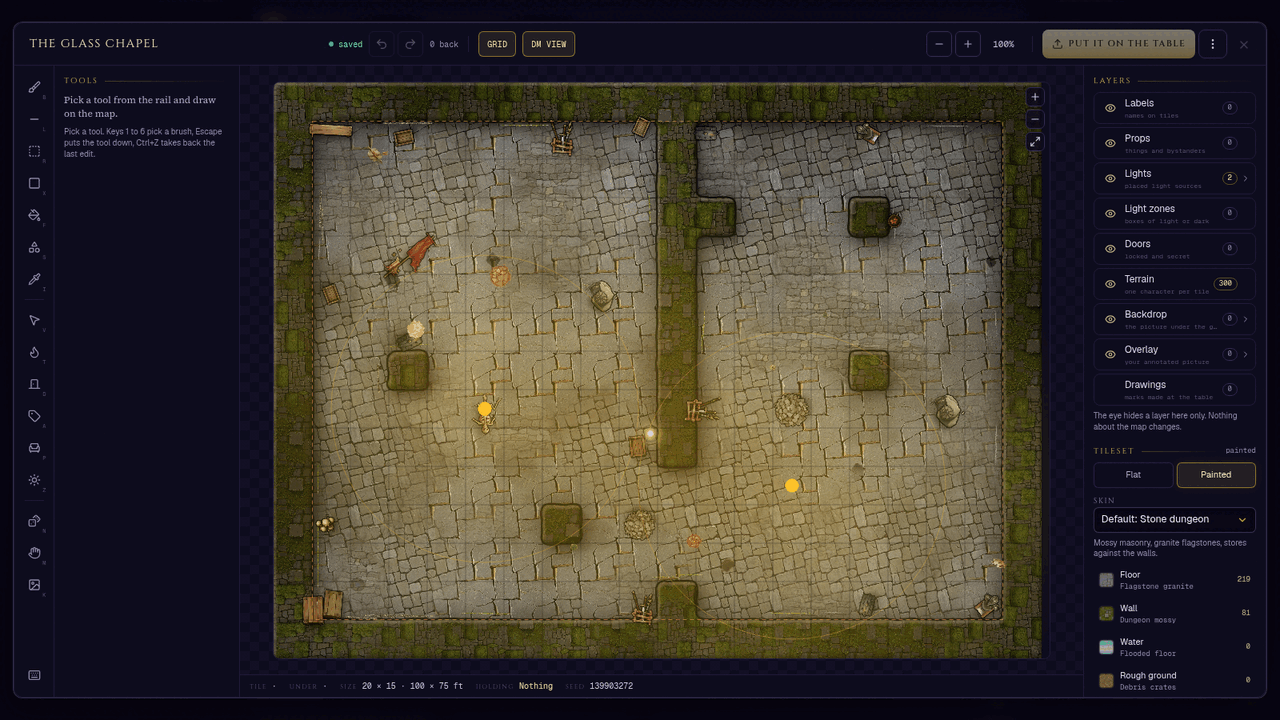
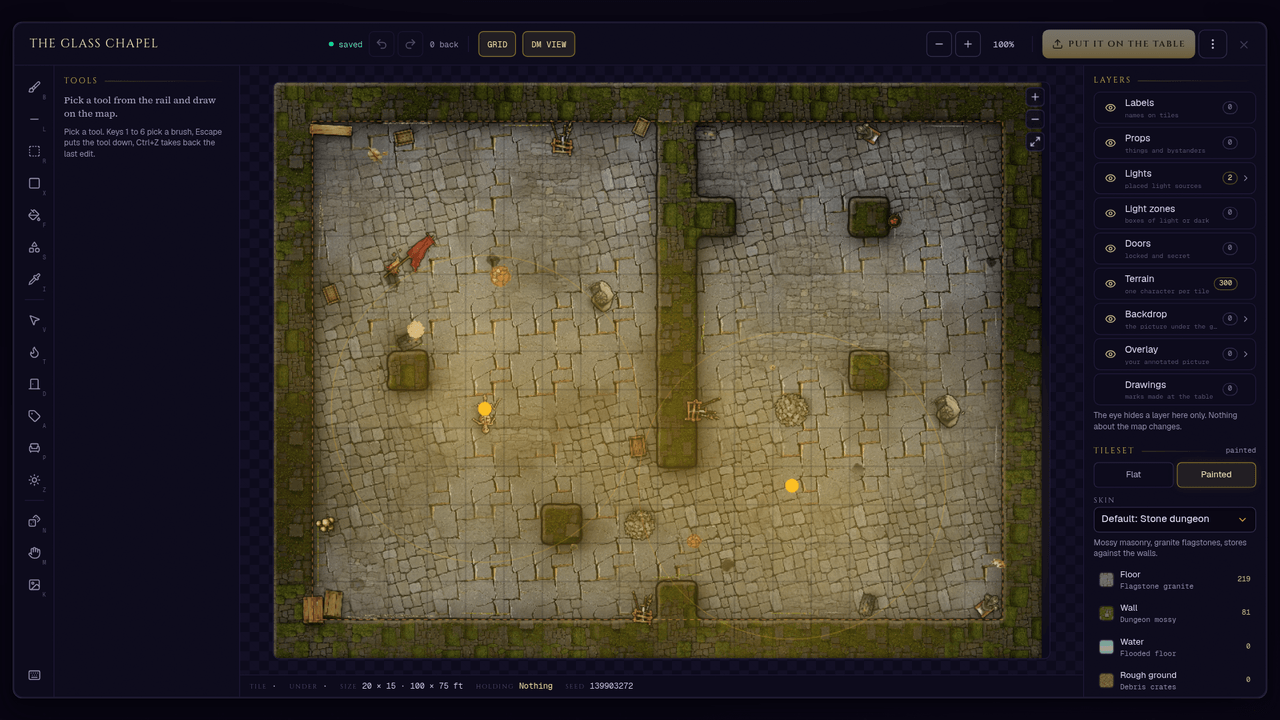
README: screenshots retaken from the live app, and download stats
The table, battle map, builder, workshop, map studio and phone shots come from
the 2026-10-11 live capture; captions follow the screens that moved (the builder
on ability scores, the painted map studio, WorldForge in the workshop). A new
badge row shows Docker Hub pulls, app and server downloads, the latest release,
stars and the Discord.

diff --git a/README.md b/README.md
@@ -4,6 +4,13 @@
 
 <br>
 
+[![Docker pulls](https://img.shields.io/docker/pulls/lebbi/open-dungeon-master?label=docker%20pulls&logo=docker&logoColor=d4ab3a&color=d4ab3a&labelColor=151229&style=flat-square)](https://hub.docker.com/r/lebbi/open-dungeon-master)
+[![App downloads](https://img.shields.io/github/downloads/Lebbitheplow/open-dungeon-master-client/total?label=app%20downloads&logo=github&logoColor=d4ab3a&color=d4ab3a&labelColor=151229&style=flat-square)](https://github.com/Lebbitheplow/open-dungeon-master-client/releases)
+[![Server downloads](https://img.shields.io/github/downloads/Lebbitheplow/open-dungeon-master/total?label=server%20downloads&logo=github&logoColor=d4ab3a&color=d4ab3a&labelColor=151229&style=flat-square)](https://github.com/Lebbitheplow/open-dungeon-master/releases)
+[![Latest release](https://img.shields.io/github/v/release/Lebbitheplow/open-dungeon-master?label=release&color=d4ab3a&labelColor=151229&style=flat-square)](https://github.com/Lebbitheplow/open-dungeon-master/releases/latest)
+[![GitHub stars](https://img.shields.io/github/stars/Lebbitheplow/open-dungeon-master?logo=github&logoColor=d4ab3a&color=d4ab3a&labelColor=151229&style=flat-square)](https://github.com/Lebbitheplow/open-dungeon-master/stargazers)
+[![Discord](https://img.shields.io/badge/chat-Discord-e0703a?logo=discord&logoColor=e0703a&labelColor=151229&style=flat-square)](https://discord.gg/B2tQFr3TYD)
+
 [![License: MIT](https://img.shields.io/badge/license-MIT-d4ab3a?labelColor=151229&style=flat-square)](LICENSE)
 [![Node 22+](https://img.shields.io/badge/node-22%2B-d4ab3a?labelColor=151229&style=flat-square)](package.json)
 [![Ruleset: D&D 5e SRD 5.1](https://img.shields.io/badge/ruleset-D%26D%205e%20SRD%205.1-d4ab3a?labelColor=151229&style=flat-square)](docs/rules-coverage.md)
@@ -31,18 +38,18 @@ and companions, following a secret story arc it regenerates as the campaign move
 
 ### Your turn, in cards
 
-<img src="docs/screenshot-table.png" alt="A fight in progress: the hand of action cards, a longsword card lifted with its targets, damage and to-hit odds, and the battle map on the right" width="960">
+<img src="docs/screenshot-table.png" alt="A fight in progress: the battle map docked above the hand of action cards, a longbow card lifted with its two targets, damage and to-hit odds, the chronicle on the left and the party on the right" width="960">
 
-<sub><i>A live session of <b>Embers of the Saltglass Coast</b> — your hand holds every action the sheet allows, each card says what it rolls and what it costs, and the server does the rolling. The battle map, the turn order and the party sit beside it.</i></sub>
+<sub><i>A live session of <b>Embers of the Saltglass Coast</b>. Your hand holds every action the sheet allows, each card says what it rolls and what it costs, and the server does the rolling. The battle map, the turn order and the party sit around it.</i></sub>
 
 <table>
 <tr>
-<td width="50%" align="center"><img src="docs/screenshot-battle-map.png" alt="The battle map enlarged: painted terrain, portrait tokens, the initiative strip and the fog shroud" width="460"><br><sub>The battle map, fogged and in initiative</sub></td>
-<td width="50%" align="center"><img src="docs/screenshot-builder.png" alt="The character builder on the spells and gear step, picking cantrips and prepared spells" width="460"><br><sub>The character builder, picking spells</sub></td>
+<td width="50%" align="center"><img src="docs/screenshot-battle-map.png" alt="The battle map enlarged: painted terrain, portrait tokens, the initiative strip and the fog shroud, with the chronicle beside it" width="460"><br><sub>The battle map, fogged and in initiative</sub></td>
+<td width="50%" align="center"><img src="docs/screenshot-builder.png" alt="The character builder on the ability scores step: the standard array placed across the six abilities, each with its racial bonus and final score" width="460"><br><sub>The character builder, placing ability scores</sub></td>
 </tr>
 <tr>
-<td width="50%" align="center"><img src="docs/screenshot-workshop.png" alt="The workshop hub: storyboard, party, battle maps, region, encounters, cast, factions, bestiary, homebrew, lore, tables, rules, plugin and share" width="460"><br><sub>The workshop, where prep lives</sub></td>
-<td width="50%" align="center"><img src="docs/screenshot-map-studio.png" alt="The map studio: a description typed in plain words, the words it recognised, and the map it rolled" width="460"><br><sub>The map studio: describe it, roll it</sub></td>
+<td width="50%" align="center"><img src="docs/screenshot-workshop.png" alt="The workshop hub: an XP budget for the party it is built for, and tiles for WorldForge, storyboard, party, battle maps, region, encounters, cast, factions, bestiary, homebrew, lore, tables, rules, plugin and share" width="460"><br><sub>The workshop, where prep lives</sub></td>
+<td width="50%" align="center"><img src="docs/screenshot-map-studio.png" alt="The map studio: the tool rail, a painted stone chapel with its lights placed, and the layers, tileset and skin panels" width="460"><br><sub>The map studio: paint it, light it, put it on the table</sub></td>
 </tr>
 </table>
 
